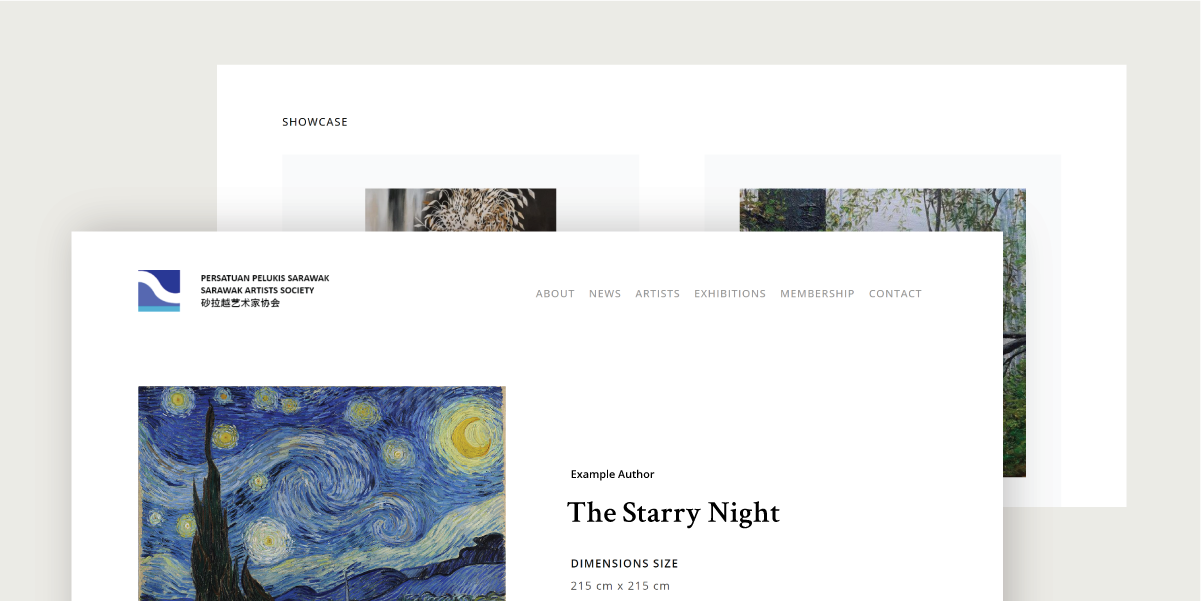
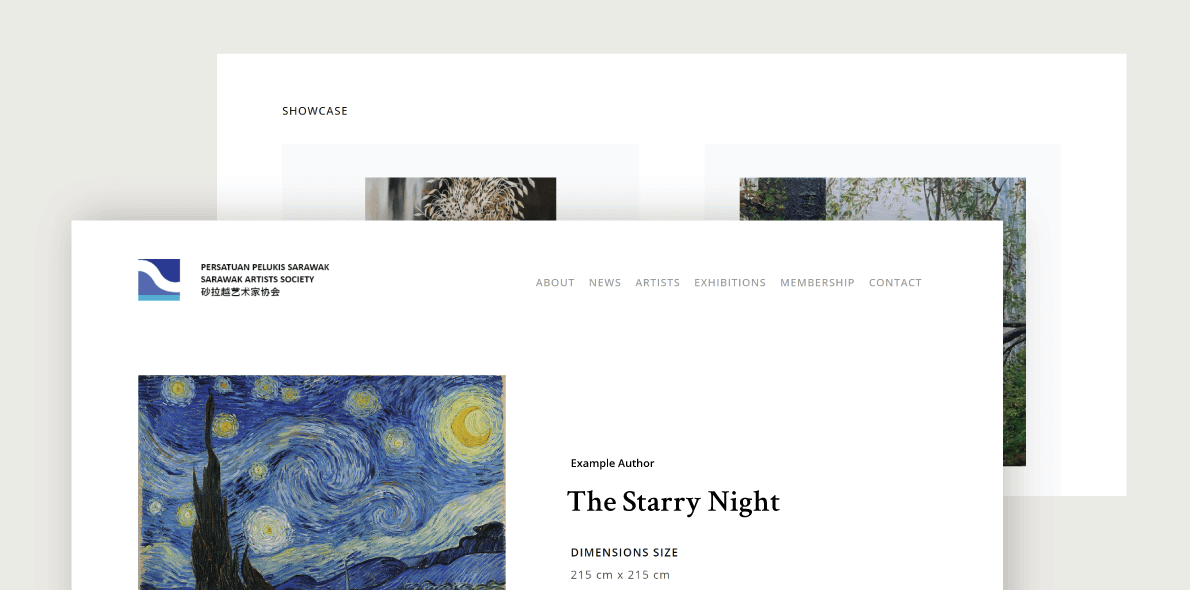
feat: bg-color on every refresh; fix: footer's text size, copywriting

diff --git a/components/Layout/Footer/Footer.tsx b/components/Layout/Footer/Footer.tsx
@@ -20,16 +20,16 @@ const Footer = () => {
       }`}
     >
       <div className="mx-auto max-w-screen-xl px-8">
-        <section className="mt-12 mb-6">
-          <h1 className="pb-12 text-3xl font-medium leading-snug md:text-5xl md:leading-snug">
+        <section className="mt-12 mb-6 font-medium">
+          <h1 className=" text-3xl leading-snug md:text-5xl md:leading-snug">
             Say hi at
           </h1>
-          <h1 className="inline-block text-xl leading-snug md:text-3xl md:leading-snug">
+          <h1 className="inline-block text-xl leading-snug md:text-5xl md:leading-snug">
             <a
               target="_blank"
               rel="noreferrer"
               href="mailto:hello@johnnychai.com"
-              className="group break-words font-medium"
+              className="group break-words"
             >
               <div className="flex items-center">
                 <div className="group-hover:underline">
@@ -40,11 +40,12 @@ const Footer = () => {
                 </div>
               </div>
             </a>
+            <div>or stay in touch.</div>
           </h1>
         </section>
         <section className="mb-20 mt-6 flex text-lg text-black md:mb-36">
           <ul className="flex flex-col md:flex-row">
-            <li className="my-4 mr-6">
+            <li className="my-2 mr-6">
               <a
                 target="_blank"
                 rel="noreferrer"
@@ -61,7 +62,7 @@ const Footer = () => {
                 </div>
               </a>
             </li>
-            <li className="my-4 mr-6">
+            <li className="my-2 mr-6">
               <a
                 target="_blank"
                 rel="noreferrer"
@@ -78,7 +79,7 @@ const Footer = () => {
                 </div>
               </a>
             </li>
-            <li className="my-4 mr-6">
+            <li className="my-2 mr-6">
               <a
                 target="_blank"
                 rel="noreferrer"

diff --git a/components/Layout/Header/Header.tsx b/components/Layout/Header/Header.tsx
@@ -34,7 +34,7 @@ const Header = ({ scroll }: Props) => {
   return (
     <header>
       <div
-        className={`fixed z-50 hidden w-full border-b bg-white pt-5 pb-5 transition-all duration-300 ease-out md:block ${
+        className={`fixed z-50 hidden w-full pt-5 pb-5 transition-all duration-300 ease-out md:block ${
           scroll && "-translate-y-full transition-all"
         }`}
       >
@@ -48,17 +48,17 @@ const Header = ({ scroll }: Props) => {
           </div>
           <nav>
             <ul className="text-base">
-              <li className="ml-16 inline-block font-medium decoration-2 underline-offset-8 hover:underline">
+              <li className="ml-16 inline-block font-semibold decoration-2 underline-offset-8 hover:underline">
                 <Link href="/work">
                   <a>Work</a>
                 </Link>
               </li>
-              <li className="ml-16 inline-block font-medium decoration-2 underline-offset-8 hover:underline">
+              <li className="ml-16 inline-block font-semibold decoration-2 underline-offset-8 hover:underline">
                 <Link href="/blog">
                   <a>Blog</a>
                 </Link>
               </li>
-              <li className="ml-16 inline-block font-medium decoration-2 underline-offset-8 hover:underline">
+              <li className="ml-16 inline-block font-semibold decoration-2 underline-offset-8 hover:underline">
                 <Link href="/about">
                   <a>About</a>
                 </Link>
@@ -68,7 +68,7 @@ const Header = ({ scroll }: Props) => {
         </div>
       </div>
       <div
-        className={`fixed z-50 block w-full border-b bg-white px-8 pt-5 pb-5 transition-all duration-300 ease-out md:hidden ${
+        className={`fixed z-50 block w-full px-8 pt-5 pb-5 transition-all duration-300 ease-out md:hidden ${
           scroll && "-translate-y-full transition-all"
         }`}
       >

diff --git a/pages/about.tsx b/pages/about.tsx
@@ -47,7 +47,7 @@ const About = () => {
               <h3 className="text-3xl leading-relaxed md:text-5xl md:leading-snug">
                 Hi, I&apos;m Johnny. I studied at Swinburne University Sarawak,
                 graduated with a multimedia design degree, and recently worked
-                as a Multimedia Designer.
+                as a UX Developer.
               </h3>
             </div>
           </div>
@@ -96,7 +96,11 @@ const About = () => {
                   <p className="text-base text-gray-600">Sep 2022 - Present</p>
                 </div>
                 <div className="w-full md:w-3/5">
-                  <p>Conduct user research, design and development.</p>
+                  <p>
+                    Responsible for the UX design, front-end development, and
+                    implementation of the client&apos;s products and services
+                    that focus on user-friendly websites and applications.
+                  </p>
                 </div>
               </div>
               <div className="flex flex-col gap-8 py-12 text-lg md:flex-row">

diff --git a/components/Common/Summary.tsx b/components/Common/Summary.tsx
@@ -2,6 +2,8 @@
  * Summary component for homepage
  */
 
+// TODO Compoentize this component
+
 import { Location } from "../SVG";
 import { useInView } from "react-intersection-observer";
 
@@ -36,9 +38,18 @@ const Summary = () => {
             code and design.
           </h1>
           <h1 className="leading-snug">
-            Currently, I&apos;m on a break from freelancing. Before that, I
-            worked as a Multimedia designer in a marketing agency doing digital
-            advertisements and designs.
+            Currently interning as a{" "}
+            <span className="underline">UX Developer</span> @{" "}
+            <a
+              target="_blank"
+              rel="noreferrer"
+              href="https://uxagents.com"
+              className="underline"
+            >
+              UXAgents
+            </a>
+            . Before that, I worked as a Multimedia designer in a marketing
+            agency doing digital advertisements and designs.
           </h1>
           <h1 className="leading-snug">
             Looking for my{" "}

diff --git a/pages/_document.tsx b/pages/_document.tsx
@@ -6,6 +6,20 @@
 import { Html, Head, Main, NextScript } from "next/document";
 
 const Document = () => {
+  // Store random colors
+  const colorBG = [
+    "#d1e4de",
+    "#d1dee4",
+    "#d2d0e5",
+    "#e6d1d4",
+    "#e5dbd2",
+    "#eeeade",
+    "#ffffff"
+  ];
+
+  // Generate a random number
+  const random = Math.floor(Math.random() * colorBG.length);
+
   return (
     <Html>
       <Head>
@@ -14,7 +28,7 @@ const Document = () => {
           rel="stylesheet"
         />
       </Head>
-      <body>
+      <body style={{ backgroundColor: `${colorBG[random]}` }}>
         <Main />
         <NextScript />
       </body>

diff --git a/components/Layout/Template/Blog/BlogLayout.tsx b/components/Layout/Template/Blog/BlogLayout.tsx
@@ -65,7 +65,7 @@ const BlogLayout = ({ data, content }: Props) => {
             contentVisible && "animate-[content_1s_ease-in-out]"
           }`}
         >
-          <h3 className="text-2xl font-semibold leading-snug md:text-3xl md:leading-snug">
+          <h3 className="text-2xl font-medium leading-snug md:text-3xl md:leading-snug">
             {data.description}
           </h3>
           <div className="flex flex-col space-y-4 md:flex-row md:items-center md:space-y-0 md:space-x-4">

diff --git a/components/Layout/Template/Work/WorkLayout.tsx b/components/Layout/Template/Work/WorkLayout.tsx
@@ -76,7 +76,7 @@ const WorkLayout = ({ data, content }: Props) => {
               }`}
             >
               <div>
-                <h3 className="mb-6 text-2xl leading-snug text-black md:text-3xl md:leading-snug">
+                <h3 className="mb-6 text-2xl font-medium leading-snug text-black md:text-3xl md:leading-snug">
                   {data.summary}
                 </h3>
                 <div className="flex w-full flex-col justify-between gap-8 pt-8 md:w-3/4 md:flex-row">
